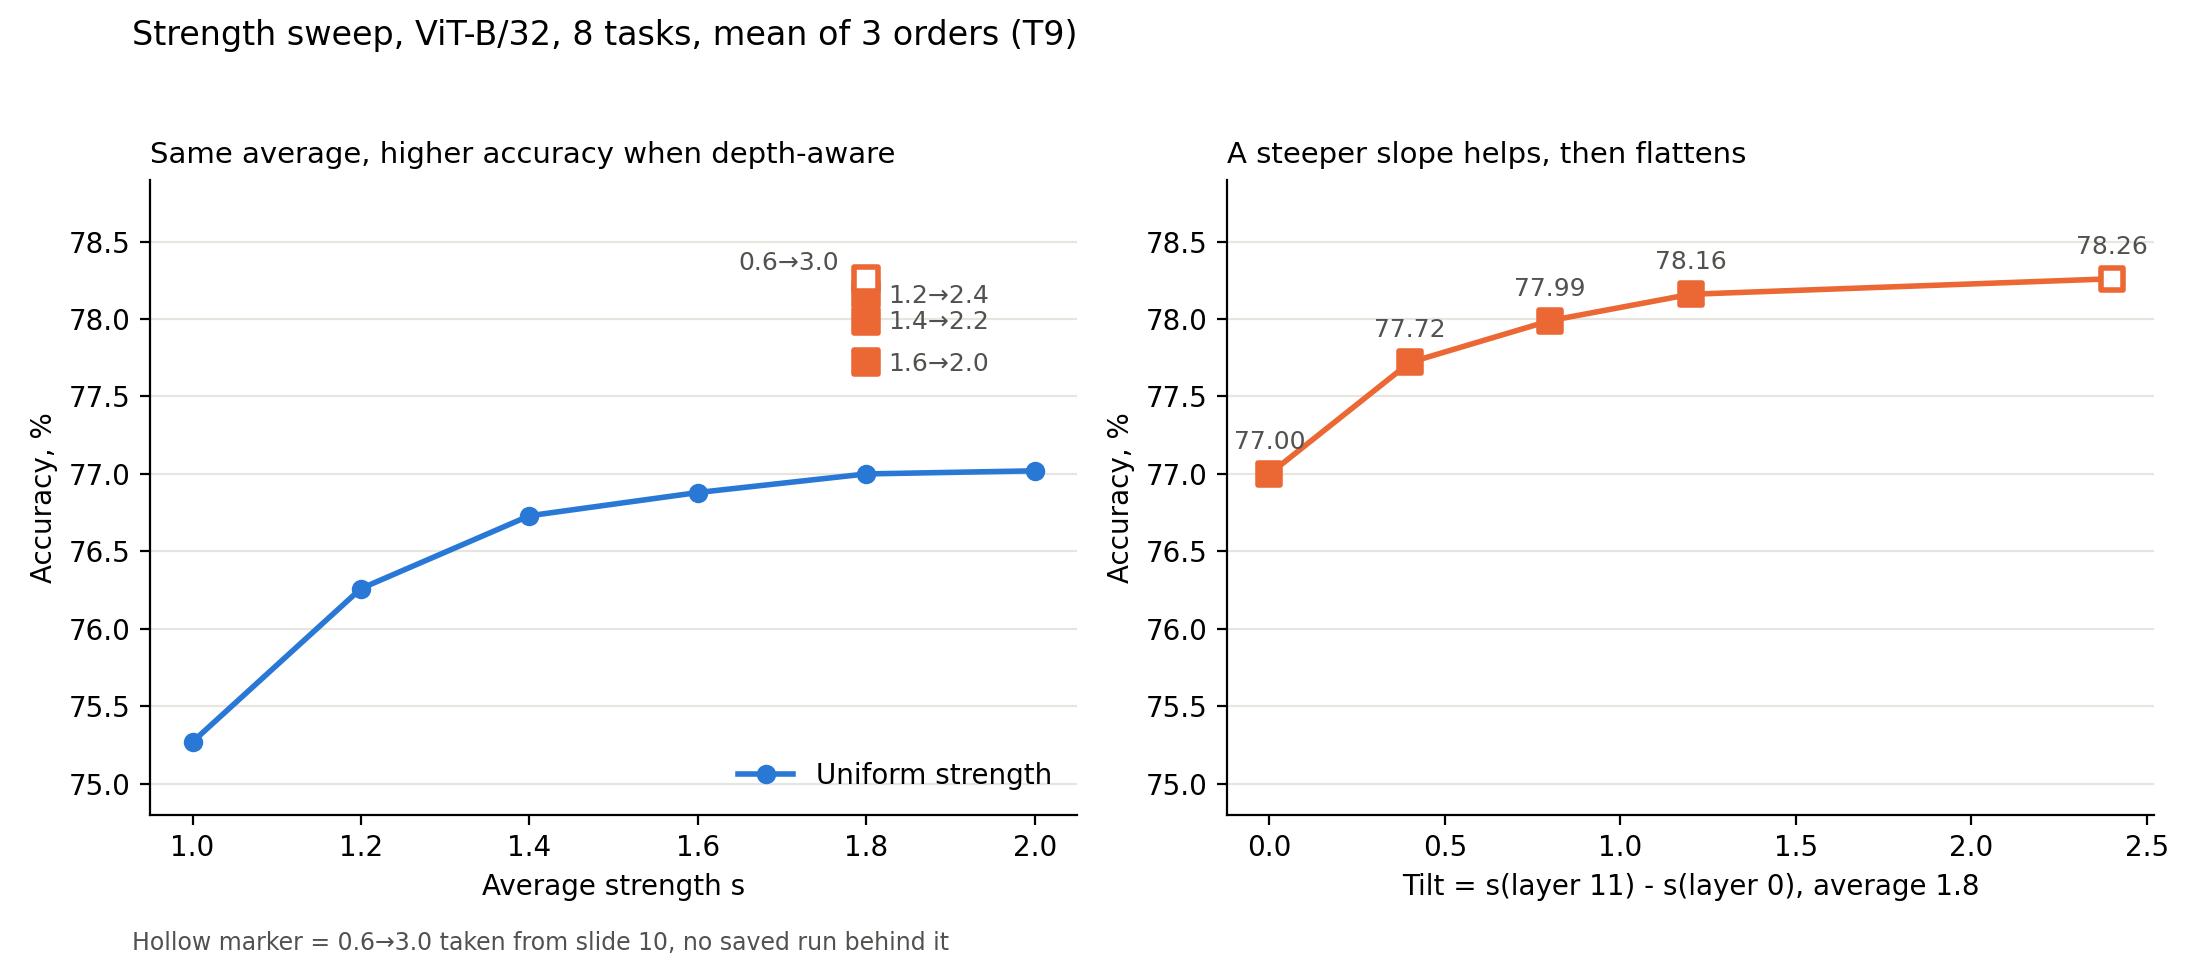
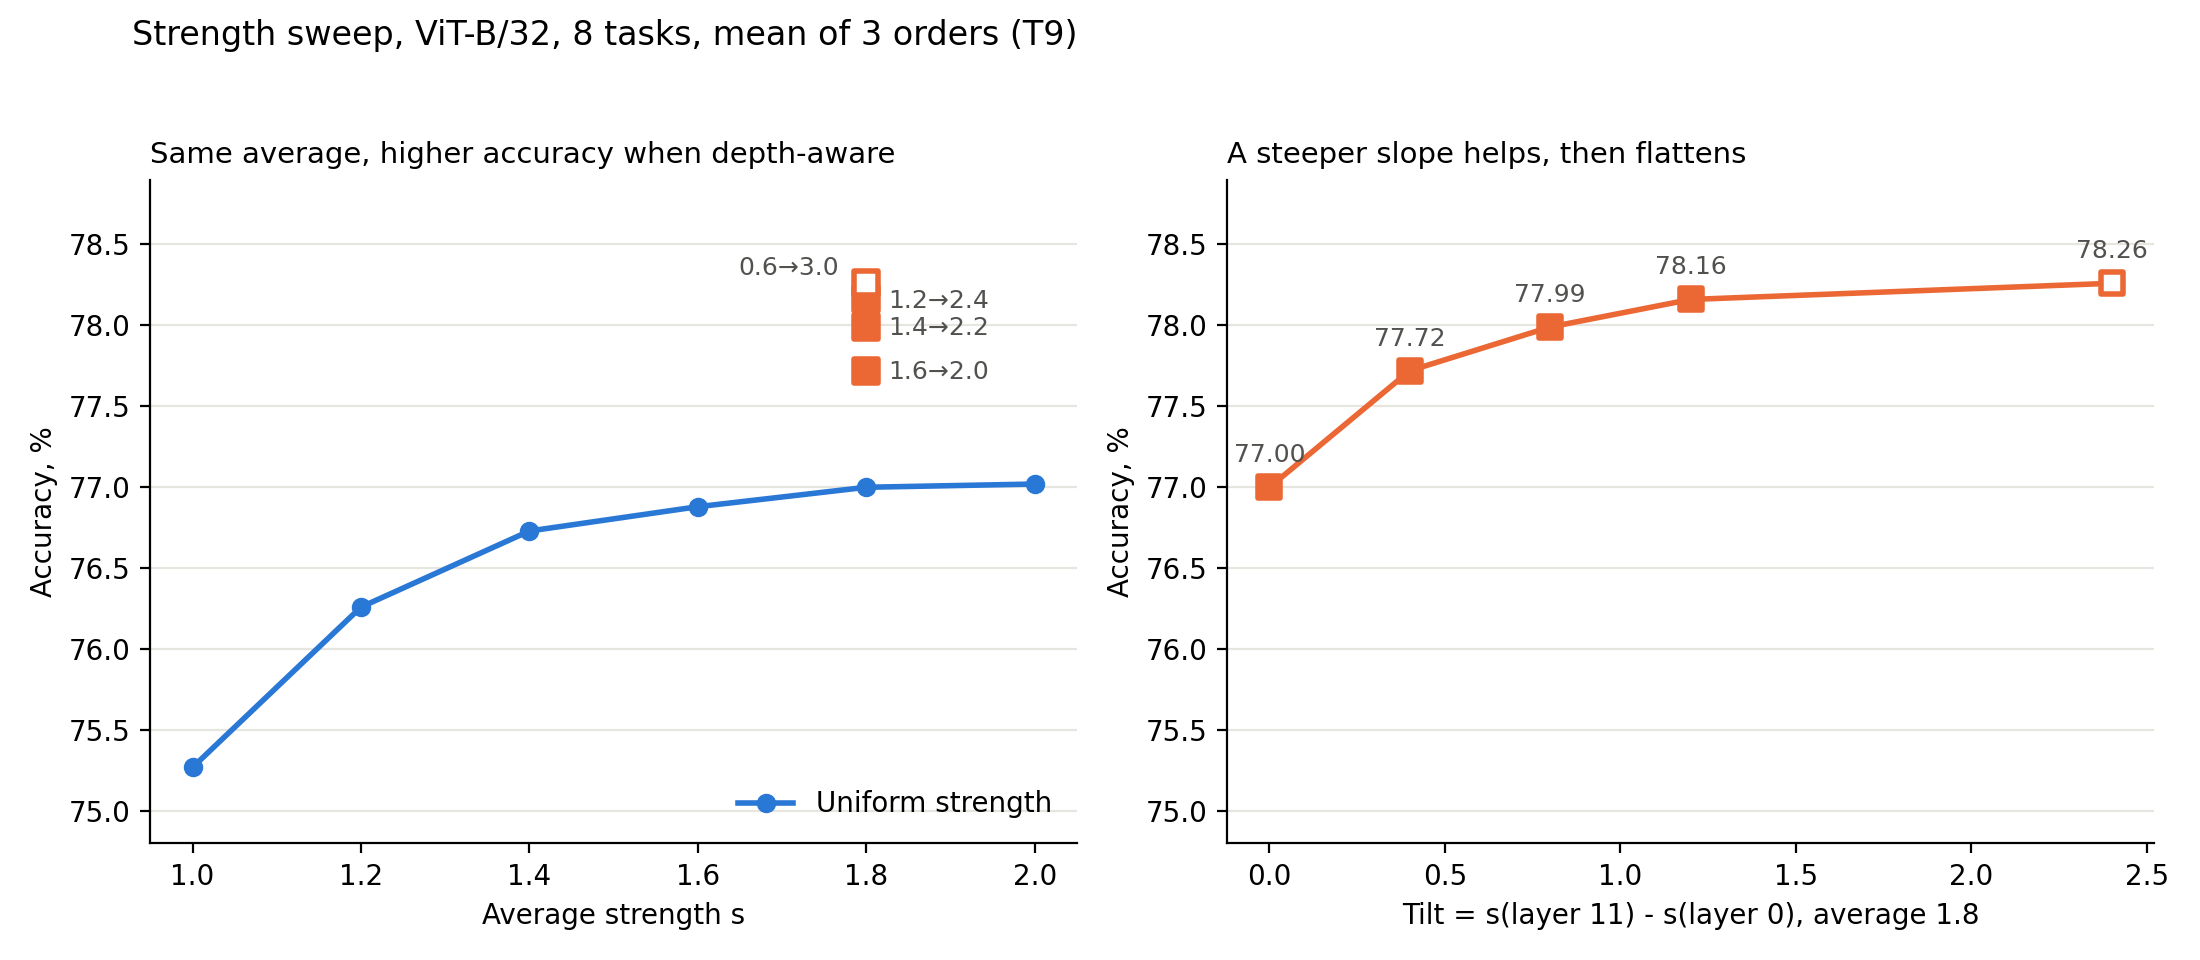
autosave 2026-11-18_15:07

diff --git a/plot_strength_from_table.py b/plot_strength_from_table.py
@@ -24,6 +24,5 @@ b.set_xlabel("Tilt = s(layer 11) - s(layer 0), average 1.8"); b.set_ylabel("Accu
 b.set_title("A steeper slope helps, then flattens",loc="left",fontsize=10.5)
 for ax in (a,b): ax.spines[["top","right"]].set_visible(False); ax.grid(axis="y",color="#e6e5e0"); ax.set_axisbelow(True); ax.set_ylim(74.8,78.9)
 fig.suptitle("Strength sweep, ViT-B/32, 8 tasks, mean of 3 orders (T9)",x=0.06,ha="left",fontsize=12)
-fig.text(0.06,0.01,"Hollow marker = 0.6→3.0 taken from slide 10, no saved run behind it",fontsize=8.5,color=K)
-fig.tight_layout(rect=(0,0.03,1,0.95)); fig.savefig("results/paper/figs/F12_strength_sweep.png")
+fig.tight_layout(rect=(0,0,1,0.95)); fig.savefig("results/paper/figs/F12_strength_sweep.png")
 print(U,D)
